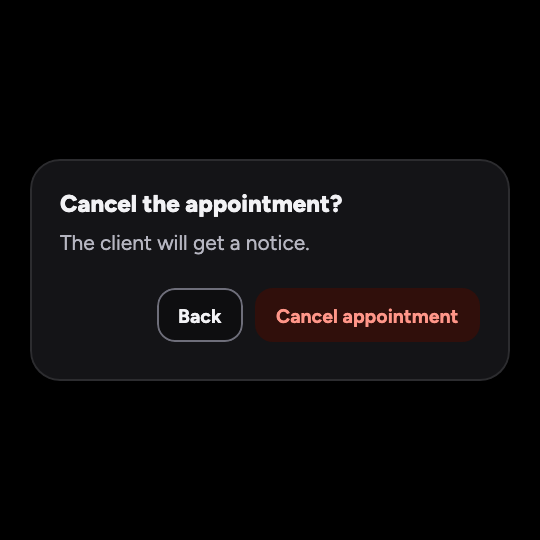
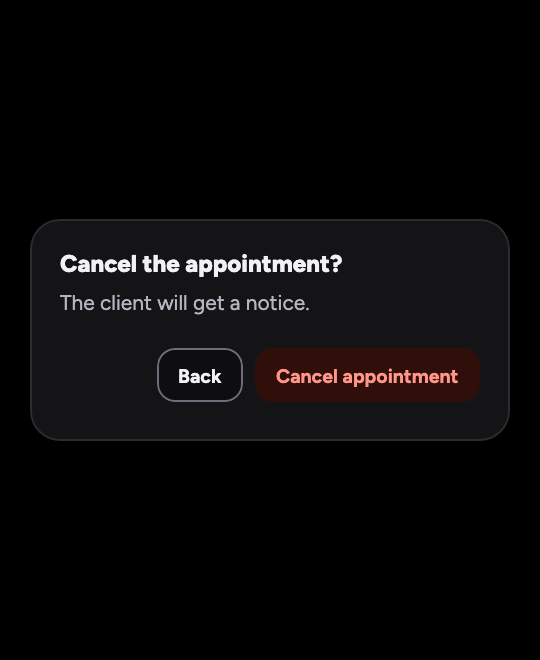
fix(ui-compose): reflow dialog actions at large font scale

diff --git a/packages/ui-compose/kit/src/commonMain/kotlin/com/jcsoftdev/ui/overlays/Dialog.kt b/packages/ui-compose/kit/src/commonMain/kotlin/com/jcsoftdev/ui/overlays/Dialog.kt
@@ -7,9 +7,9 @@ import androidx.compose.foundation.layout.Arrangement
 import androidx.compose.foundation.layout.Box
 import androidx.compose.foundation.layout.Column
 import androidx.compose.foundation.layout.ColumnScope
+import androidx.compose.foundation.layout.FlowRow
+import androidx.compose.foundation.layout.FlowRowScope
 import androidx.compose.foundation.layout.PaddingValues
-import androidx.compose.foundation.layout.Row
-import androidx.compose.foundation.layout.RowScope
 import androidx.compose.foundation.layout.WindowInsets
 import androidx.compose.foundation.layout.fillMaxSize
 import androidx.compose.foundation.layout.fillMaxWidth
@@ -108,7 +108,7 @@ public object DialogDefaults {
 
 /**
  * Centered modal dialog built on the headless [ModalLayer] and [initialFocus] primitives. Focus moves into it when it
- * opens, [title] is the pane title, and [description] and [content] sit between the title and the [actions] row.
+ * opens, [title] is the pane title, and [description] and [content] sit between the title and the [actions] row; actions wrap onto further lines (end-aligned) when they do not fit, e.g. at large font scales.
  * [dismissOnScrim] and [dismissOnBack] decide whether a tap outside or system back call [onDismissRequest], which must set
  * [open] to false; a dialog can therefore require an explicit choice. [dismissLabel] (already localized) is the scrim's
  * accessibility action name. [motion] sets the enter and exit timing and [enterScale] the size the card grows from.
@@ -132,7 +132,7 @@ public fun Dialog(
     descriptionStyle: TextStyle = DialogDefaults.descriptionStyle,
     motion: OverlayMotion = DialogDefaults.motion,
     enterScale: Float = DialogDefaults.ENTER_SCALE,
-    actions: (@Composable RowScope.() -> Unit)? = null,
+    actions: (@Composable FlowRowScope.() -> Unit)? = null,
     content: (@Composable ColumnScope.() -> Unit)? = null,
 ) {
     val presence = rememberOverlayPresence(open, motion)
@@ -186,10 +186,11 @@ public fun Dialog(
                     )
                 }
                 if (actions != null) {
-                    Row(
+                    FlowRow(
                         Modifier.fillMaxWidth().padding(top = sizes.space8),
                         horizontalArrangement = Arrangement.spacedBy(sizes.space8, Alignment.End),
-                        verticalAlignment = Alignment.CenterVertically,
+                        verticalArrangement = Arrangement.spacedBy(sizes.space8),
+                        itemVerticalAlignment = Alignment.CenterVertically,
                         content = actions,
                     )
                 }

diff --git a/packages/ui-compose/kit/src/jvmTest/kotlin/com/jcsoftdev/ui/screenshots/OverlaysShots.kt b/packages/ui-compose/kit/src/jvmTest/kotlin/com/jcsoftdev/ui/screenshots/OverlaysShots.kt
@@ -31,7 +31,7 @@ class OverlaysShots {
         }
 
     @Test fun dialog() =
-        shoot("overlays", "dialog", height = 360.dp) {
+        shoot("overlays", "dialog", height = 440.dp) {
             Dialog(
                 open = true,
                 onDismissRequest = {},
